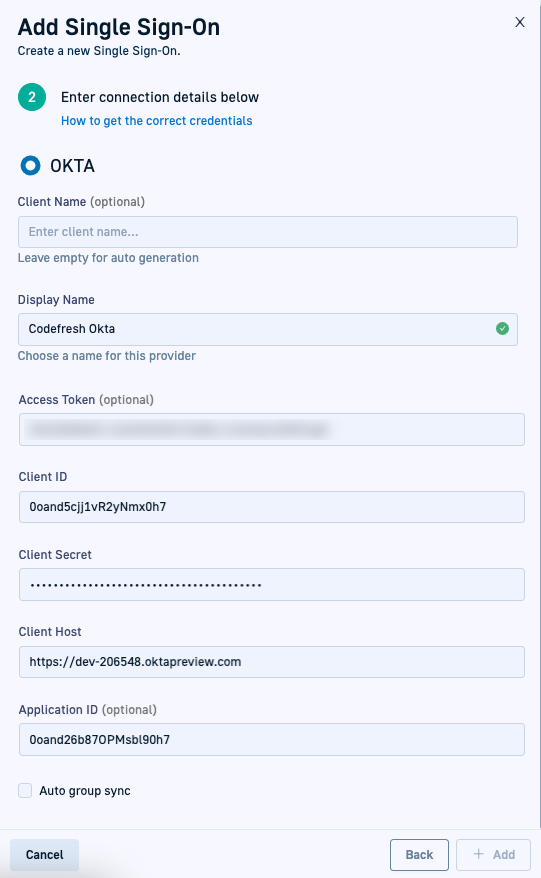
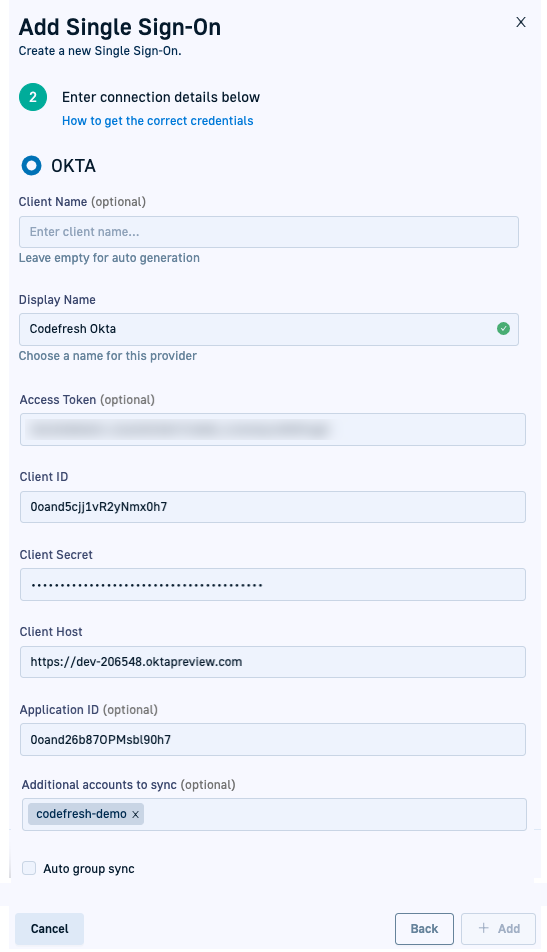
Add multi-account integration for Okta
Added new multi-account selection and integration for Okta and updated screenshot

diff --git a/_docs/single-sign-on/oidc/oidc-okta.md b/_docs/single-sign-on/oidc/oidc-okta.md
@@ -75,11 +75,12 @@ Set up OIDC SSO for Okta in Codefresh by:
   * App name (e.g. Codefresh).
   * App logo (optional). Feel free to download and add this [picture]({{site.baseurl}}/images/administration/sso/okta/codefresh-logo.png).
   * Login redirect URI: `https://g.codefresh.io/api/auth/<codefresh_client_name>/callback`   
-    where:
-    <codefresh_client_name> is generated by Codefresh when you configure SSO settings.  
-    For now, use a temp value such as `https://g.codefresh.io/api/auth/temp/callback`.
+    where:  
+    `<codefresh_client_name>` is generated by Codefresh when you configure SSO settings.   
+    For now, use a temp value such as `https://g.codefresh.io/api/auth/temp/callback`.  
   * Select **Save**.
-   {% include image.html 
+  
+  {% include image.html 
    lightbox="true" 
    file="/images/sso/okta/image4.png" 
    url="/images/sso/okta/image4.png"
@@ -88,44 +89,51 @@ Set up OIDC SSO for Okta in Codefresh by:
    max-width="70%"
    %}
 
+{:start="7"}
 1. Continue with [Step 2: Configure OIDC SSO settings for Okta in Codefresh](#step-2-configure-oidc-sso-settings-for-okta-in-codefresh).
 
 ## Step 2: Configure OIDC SSO settings for Okta in Codefresh
 To configure OIDC SSO settings for Okta in Codefresh, you need the Client ID, Client Secret, Access token, and the Codefresh application ID as defined in Okta.
 
-**Before you begin**  
-Copy the values from the following screens in Okta:
+### Before you begin
+1. Copy the values from the following screens in Okta:
+    * Client ID and Client secret
+    * The API token generated in OKTA from Security tab > API
+    * Application ID assigned to the Codefresh application in Okta
 
 {% include image.html 
 lightbox="true" 
 file="/images/sso/okta/image7.png" 
 url="/images/sso/okta/image7.png"
-alt="Client ID and secret"
-caption="Client ID and secret"
-max-width="70%"
+alt="Client ID and Client secret"
+caption="Client ID and Client secret"
+max-width="60%"
 %}
 
-The API token generated in OKTA from Security tab >API.
+  
 {% include image.html 
 lightbox="true" 
 file="/images/sso/okta/image2.png" 
 url="/images/sso/okta/image2.png"
 alt="API token in Okta to use as Access token"
 caption="API token in Okta to use as Access token"
-max-width="70%"
+max-width="60%"
 %}
 
-This Application ID assigned to the Codefresh application in Okta.
+  
 {% include image.html 
 lightbox="true" 
 file="/images/sso/okta/image3.png" 
 url="/images/sso/okta/image3.png"
-alt="App ID"
-caption="App ID"
-max-width="70%"
+alt="Application ID"
+caption="Application ID"
+max-width="60%"
 %}
 
-**How to**  
+{:start="2"}
+1. The names of the accounts to sync to Codefresh through this integration. Verify that you have administrator access to each of the accounts.
+
+### How to 
 
 1. In the Codefresh UI, from the toolbar click the **Settings** icon.
 1. In the sidebar, from Access & Collaboration, select [Single Sign-On](https://g.codefresh.io/2.0/account-settings/single-sign-on){:target="\_blank"}.
@@ -150,7 +158,10 @@ max-width="30%"
   * **Client Host**: The OKTA organization URL, for example, `https://<company>.okta.com`.   
     Do not copy the URL from the admin view (e.g. `https://<company>-admin.okta.com`), as it will not work.
   * **Application ID**: The Codefresh application ID in your OKTA organization, that will be used to sync groups and user from OKTA to Codefresh. 
-1. Optional. To automatically sync teams or groups in Okta to Codefresh, select **Auto group sync**.  
+  * **Additional accounts to sync**: Optional. The names of the additional accounts to be synced from Okta. 
+    Codefresh validates if the user has both access to and administrator privileges for the selected accounts.  
+    See [How Okta syncing works](#how-okta-syncing-works) for team/group sync options with Okta.
+1. Optional. To automatically sync teams or groups in Okta to Codefresh via the UI, including additional accounts selected if any, select **Auto-group sync**.  
   This action syncs groups every 12 hours. 
   > Though you can assign an Okta application to both groups and individual users, Codefresh _only syncs users who are part of teams_.   
   New users in Okta, _not_ assigned to a team, are **NOT** synced with Codefresh. You should first assign the user to a team for the sync to work.
@@ -164,7 +175,7 @@ max-width="30%"
   url="/images/sso/okta/image6.png"
   alt="Client name"
   caption="Client name"
-  max-width="70%"
+  max-width="50%"
   %}
 
 {:start="6"}
@@ -178,26 +189,21 @@ max-width="30%"
 
 You have now completed SSO setup for Okta. 
 
-## How Okta syncing works
-[Syncing with Okta]({{site.baseurl}}/docs/single-sign-on/team-sync/)
-only affects teams/groups, and not individual users.
+## CLI/UI-based team/group sync for Okta
+Syncing with Okta _only affects teams/groups_, and not individual users.
 
+After initial SSO setup, you can activate automatic syncing of teams for the integration account or for both the integration and additional accounts via the CLI and the UI.
 
+* CLI  
+  You can select multiple accounts to sync to Codefresh through the **Additional accounts to sync** option in the UI, and then either create a Codefresh pipeline with the CLI command or run the CLI command when required.  
+  The pipeline should run the CLI command `codefresh synchronize teams my-okta-client-name -t okta`.  
+  See [Syncing teams in IdPs with Codefresh]({{site.baseurl}}//docs/single-sign-on/team-sync/#syncing-teams-in-idps-with-codefresh).
 
-### Sync teams after initial SSO setup
-There are two ways to set up automatic syncing of teams:
+* UI  
+  Select the accounts to sync to Codefresh through the **Additional accounts to sync** option in the UI, and turn on **Auto-group sync** in the SSO configuration settings. 
 
-* Pipeline running a CLI command: Create a Codefresh pipeline the runs the CLI command `codefresh synchronize teams my-okta-client-name -t okta` as explained in the [pipeline sync page]({{site.baseurl}}/docs/single-sign-on/team-sync).
-* Turn on the auto-sync toggle as part of the SSO configuration settings.:
-   {% include image.html 
-  lightbox="true" 
-  file="/images/administration/sso/okta/auto-group-sync.png" 
-  url="/images/administration/sso/okta/auto-group-sync.png"
-  alt="Automatic team syncing"
-  caption="Automatic team syncing"
-  max-width="50%"
-  %}
-
+ 
+ 
 ## Related articles
 [Federated Single Sign-On (SSO) overview]({{site.baseurl}}/docs/single-sign-on/single-sign-on/)  
 [Common configuration for SSO providers]({{site.baseurl}}/docs/single-sign-on/team-sync)  

diff --git a/_docs/single-sign-on/saml/saml-okta.md b/_docs/single-sign-on/saml/saml-okta.md
@@ -41,9 +41,6 @@ SAML SSO settings for Okta include auto-syncing teams and groups in OKta with Co
   * **Access Token**: Optional. The OKTA API token that you generated in Okta, used to sync groups and their users from OKTA to Codefresh. 
   * **Client Host**: The OKTA organization URL, for example, `https://<company>.okta.com`.   
   * **Application ID**: The Codefresh application ID in your OKTA organization, that will be used to sync groups and user from OKTA to Codefresh. 
- <!--- new field name to be confirmed ask if Activate user is selected, all users are activated?--> 
-  * **Account ID**: The ID or IDs of the additional accounts to be synced from Okta. During the sync, Codefresh automatically retrieves the accounts with the IDs and invites users and teams from these accounts. 
-
 1. Click **Add**.
   The SAML integration for Okta is added and appears in the list of SSOs. 
 1. In the Single Sign-On page, click the **Edit** icon for the Okta SAML integration you created.

diff --git a/_docs/single-sign-on/team-sync.md b/_docs/single-sign-on/team-sync.md
@@ -24,7 +24,7 @@ SSO providers can sync users from multiple accounts, in addition to the primary 
 This functionality benfits enterprises that manage multiple accounts for a single customer, as it streamlines the sync process through a single operation. 
 If a customer has dev and prod accounts in Codefresh, they can set up an SSO integration for one of the accounts, and then specificy the ID of the second account to sync.
 
-Codefresh validates if the user has access to the accounts specified, and during team-sync retrieives the accounts with the IDs and invites users and teams for those accounts.
+Codefresh validates if the user has access to the accounts specified, and during team-sync retrieives the accounts and invites users in teams/groups for those accounts.
 
 
 -->
